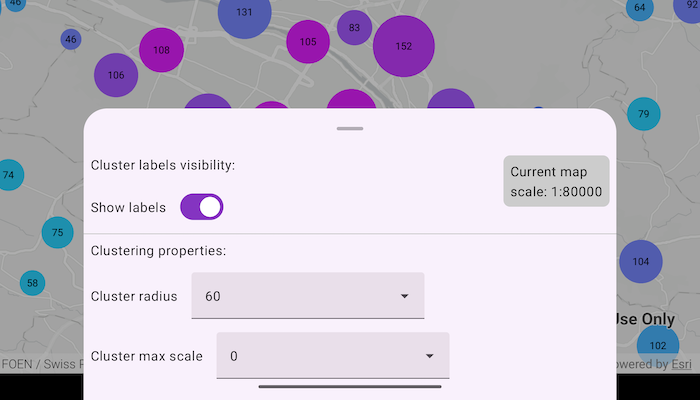
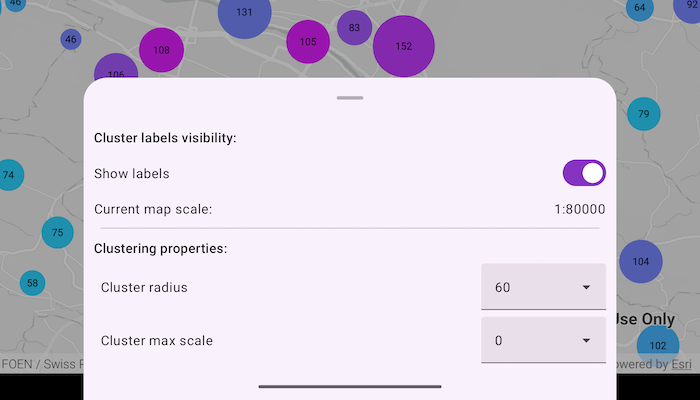
update screenshot and adding padding

diff --git a/configure-clusters/src/main/java/com/esri/arcgismaps/sample/configureclusters/screens/MainScreen.kt b/configure-clusters/src/main/java/com/esri/arcgismaps/sample/configureclusters/screens/MainScreen.kt
@@ -24,6 +24,7 @@ import androidx.compose.foundation.layout.Row
 import androidx.compose.foundation.layout.Spacer
 import androidx.compose.foundation.layout.fillMaxSize
 import androidx.compose.foundation.layout.fillMaxWidth
+import androidx.compose.foundation.layout.navigationBarsPadding
 import androidx.compose.foundation.layout.padding
 import androidx.compose.foundation.layout.size
 import androidx.compose.foundation.layout.width
@@ -106,7 +107,8 @@ fun MainScreen(sampleName: String) {
                     },
                 )
 
-                val controlsBottomSheetState = rememberModalBottomSheetState()
+                val controlsBottomSheetState =
+                    rememberModalBottomSheetState(skipPartiallyExpanded = true)
                 // show the "Show controls" button only when the bottom sheet is not visible
                 if (!controlsBottomSheetState.isVisible) {
                     FloatingActionButton(
@@ -180,58 +182,56 @@ private fun ClusterControlsBottomSheet(
                 controlsBottomSheetState.hide()
             }
         }) {
-        Row {
-            Column(
-                Modifier
-                    .padding(12.dp)
+        Column(
+            Modifier
+                .padding(12.dp)
+                .navigationBarsPadding()) {
+            Text(
+                "Cluster labels visibility:",
+                style = MaterialTheme.typography.titleMedium
+            )
+            Spacer(Modifier.size(8.dp))
+            Row(
+                Modifier.fillMaxWidth(),
+                horizontalArrangement = Arrangement.SpaceBetween,
+                verticalAlignment = Alignment.CenterVertically
             ) {
-                Text(
-                    "Cluster labels visibility:",
-                    style = MaterialTheme.typography.titleMedium
-                )
-                Spacer(Modifier.size(8.dp))
-                Row(
-                    Modifier.fillMaxWidth(),
-                    horizontalArrangement = Arrangement.SpaceBetween,
-                    verticalAlignment = Alignment.CenterVertically
-                ) {
-                    Text("Show labels")
-                    Switch(
-                        checked = showClusterLabels,
-                        onCheckedChange = { showClusterLabels ->
-                            updateClusterLabelState(
-                                showClusterLabels
-                            )
-                        }
-                    )
-                }
-                Spacer(Modifier.size(8.dp))
-                Row(
-                    Modifier.fillMaxWidth(),
-                    horizontalArrangement = Arrangement.SpaceBetween,
-                    verticalAlignment = Alignment.CenterVertically
-                ) {
-                    Text("Current map scale:")
-                    Text("1:$mapScale")
-                }
-                Divider(Modifier.padding(vertical = 12.dp, horizontal = 8.dp))
-                Text(
-                    "Clustering properties:",
-                    style = MaterialTheme.typography.titleMedium
-                )
-                Spacer(Modifier.size(8.dp))
-                ClusterRadiusControls(
-                    clusterRadiusOptions,
-                    clusterRadius,
-                    updateClusterRadiusState
-                )
-                Spacer(Modifier.size(8.dp))
-                ClusterMaxScaleControls(
-                    clusterMaxScaleOptions,
-                    clusterMaxScale,
-                    updateClusterMaxScaleState
+                Text("Show labels")
+                Switch(
+                    checked = showClusterLabels,
+                    onCheckedChange = { showClusterLabels ->
+                        updateClusterLabelState(
+                            showClusterLabels
+                        )
+                    }
                 )
             }
+            Spacer(Modifier.size(8.dp))
+            Row(
+                Modifier.fillMaxWidth(),
+                horizontalArrangement = Arrangement.SpaceBetween,
+                verticalAlignment = Alignment.CenterVertically
+            ) {
+                Text("Current map scale:")
+                Text("1:$mapScale")
+            }
+            Divider(Modifier.padding(vertical = 12.dp, horizontal = 8.dp))
+            Text(
+                "Clustering properties:",
+                style = MaterialTheme.typography.titleMedium
+            )
+            Spacer(Modifier.size(8.dp))
+            ClusterRadiusControls(
+                clusterRadiusOptions,
+                clusterRadius,
+                updateClusterRadiusState
+            )
+            Spacer(Modifier.size(8.dp))
+            ClusterMaxScaleControls(
+                clusterMaxScaleOptions,
+                clusterMaxScale,
+                updateClusterMaxScaleState
+            )
         }
     }
 }
@@ -277,9 +277,7 @@ private fun ClusterRadiusControls(
                     DropdownMenuItem(
                         text = { Text(clusterRadius.toString()) },
                         onClick = {
-                            updateClusterRadius(
-                                index
-                            )
+                            updateClusterRadius(index)
                             expanded = false
                         })
                     // show a divider between dropdown menu options
@@ -333,9 +331,7 @@ private fun ClusterMaxScaleControls(
                     DropdownMenuItem(
                         text = { Text(clusterRadius.toString()) },
                         onClick = {
-                            updateClusterMaxScale(
-                                index
-                            )
+                            updateClusterMaxScale(index)
                             expanded = false
                         })
                     // show a divider between dropdown menu options
